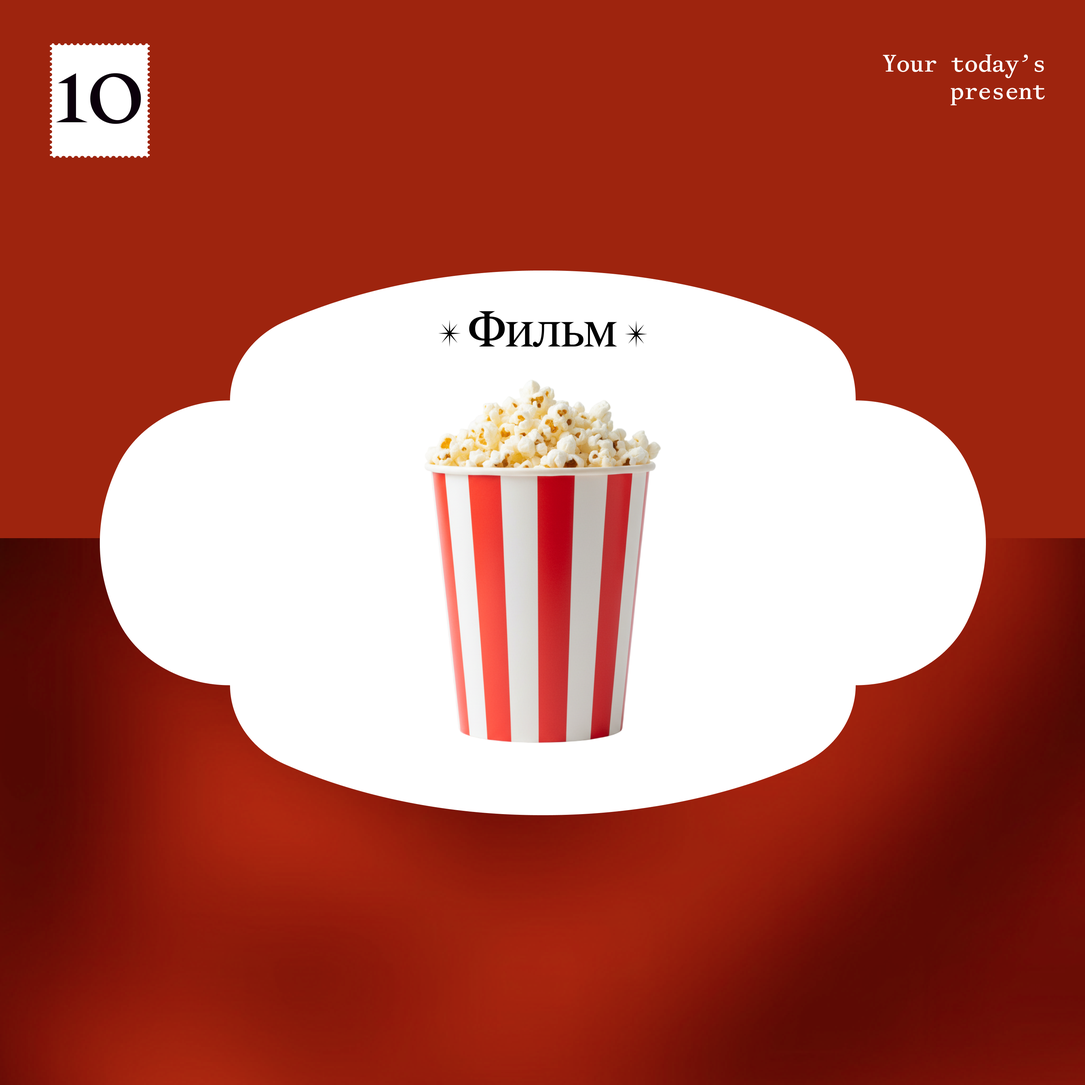
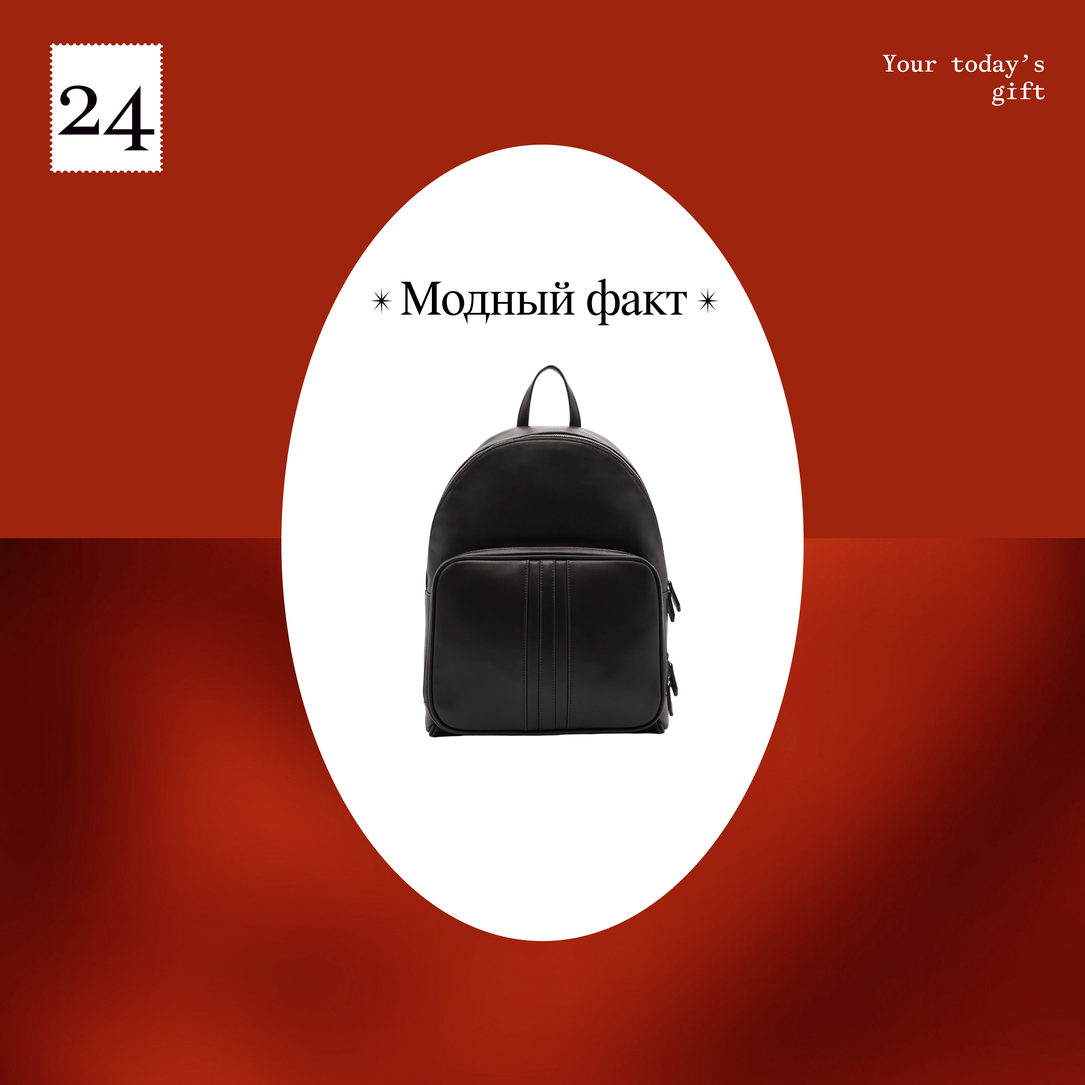
update copy and imgs

diff --git a/app/utils/advent_calendar.py b/app/utils/advent_calendar.py
@@ -1,125 +1,121 @@
 from app.database.models import AdventDay
 from app.database.requests import get_advent_day, add_advent_day, update_advent_day
 
-msg_wins_1 = """Поздравляем, удача выбрала именно тебя! 
+msg_wins_1 = """Поздравляем, удача выбрала именно вас! Используйте подарочную карту и исполни своё новогоднее fashion-желание.
 
-Используй подарочную карту и исполни своё новогоднее fashion-желание.
+С вами свяжется менеджер и обсудит детали получения подарка.
 
-С тобой свяжется менеджер и обсудит детали получения подарка.
+*рассылка подарков будет осуществляться до конца января """
 
-*рассылка подарков будет осуществляться до конца января"""
+msg_wins_2 = """Ура, вы стали победителем — новогодняя магия явно на вашей стороне! Ловите стильный аксессуар и добавляйте своему образу яркости в праздничный сезон.
 
-msg_wins_2 = """Ура, ты стал победителем — новогодняя магия явно на твоей стороне! 
+С вами свяжется менеджер и обсудит детали получения подарка.
 
-Лови стильный аксессуар и добавь своему образу яркости в праздничный сезон.
+*рассылка подарков будет осуществляться до конца января """
 
-С тобой свяжется менеджер и обсудит детали получения подарка.
+msg_wins_3 = """Вау! Вы стали обладателем нашего эксклюзивного подарочного набора! 
 
-*рассылка подарков будет осуществляться до конца января"""
-
-msg_wins_3 = """Вау! Ты стал обладателем нашего эксклюзивного супер-бокса! 
-
-С тобой свяжется менеджер и обсудит детали получения подарка.
+С вами свяжется менеджер и обсудит детали получения подарка.
 
 *рассылка подарков будет осуществляться до конца января"""
 
-#                                                                           карта   аксессуар
+
 advent_calendar = [
-    AdventDay(day=15,
+    AdventDay(day=17,
               msgs_wins=[msg_wins_1, msg_wins_2, msg_wins_3],
-              msgs_loses=["Пусть этот день ляжет на вас так же мягко, как любимый свитер: тёплый свет, спокойные паузы и маленькие модные удовольствия — удачная посадка, приятные ткани, детали, которые делают образ по-настоящему гармоничным."],
+              msgs_loses=["Пусть вечер пройдёт комфортно: любимая одежда, согревающий чай, мягкий плед и те самые детали, о которых знаете только вы! Это все точно поднимет ваше настроение."],
               count_wins_1=2,
               count_wins_2=1,
               count_wins_3=0),
-    AdventDay(day=16,
+    AdventDay(day=18,
               msgs_wins=[msg_wins_1, msg_wins_2, msg_wins_3],
-              msgs_loses=["Пора расслабиться и послушать песни, которые такие же лёгкие, как и падающие снежинки."],
-              count_wins_1=0,
-              count_wins_2=0,
-              count_wins_3=0),
-    AdventDay(day=17,
-              msgs_wins=[msg_wins_1, msg_wins_2, msg_wins_3],
-              msgs_loses=["В 2026-м ваша жизнь будет собираться, как удачный образ: спокойная база, к которой постепенно добавляются акцентные детали. Сначала — маленькие победы, затем — новые люди, затем — идея, которая станет вашим личным «главным аксессуаром года». К концу года вы увидите, как все элементы складываются в цельный, гармоничный «лук» — про вас, про рост, про внутреннюю зрелость. Это будет красивый, ровный год — без лишней суеты, но с правильными акцентами."],
+              msgs_loses=["Ваш 2026 год будет, как удачный образ: спокойная база, к которой добавляют акцентные детали. Сначала — маленькие победы, затем — новые люди, и финально — идея, которая станет вашим «главным аксессуаром года». Вы увидите, как все элементы складываются в цельный, гармоничный наряд. Это будет идеальгый год. Без лишней суеты и с правильными акцентами."],
               count_wins_1=2,
               count_wins_2=2,
               count_wins_3=0),
-    AdventDay(day=18,
+    AdventDay(day=19,
               msgs_wins=[msg_wins_1, msg_wins_2, msg_wins_3],
               msgs_loses=["Ловите классный рецепт зимнего напитка! Тёплый апельсиново-имбирный чай. В чашку — ломтик апельсина, щепотку имбиря, чайную ложку мёда и горячую воду. Настоять 3–4 минуты.  "],
               count_wins_1=1,
               count_wins_2=0,
               count_wins_3=0),
-    AdventDay(day=19,
+    AdventDay(day=20,
               msgs_wins=[msg_wins_1, msg_wins_2, msg_wins_3],
-              msgs_loses=["Пусть этот день сядет на вас так же идеально, как хорошо скроенный образ: мягкие линии спокойствия, комфортная ткань настроения и несколько стильных акцентов, от которых хочется улыбаться. Пусть всё смотрится гармонично, чувствуются вы — и ваш собственный ритм красоты."],
+              msgs_loses=["Пусть день будет в вашем ритме. А также комфорт, любимая одежда и напитки, а ещё — стильные детали, которые радуют и делают образ гармоничным."],
               count_wins_1=0,
               count_wins_2=3,
               count_wins_3=0),
-    AdventDay(day=20,
-              msgs_wins=[msg_wins_1, msg_wins_2, msg_wins_3],
-              msgs_loses=["Сегодня попробуйте «слоить» не только одежду, но и свой день. Начните с тёплой, заботливой мелочи — чашки горячего напитка или короткой паузы. Потом добавьте один полезный штрих — разобрать маленькое дело, которое давно ждёт. А сверху — что-то приятное лично для вас. Такой «многослойный» день получается устойчивым и комфортным.",
-                          "Как и у хорошего образа, у вашего дня должен быть акцент. Выберите одну вещь — маленькую, но важную: звонок близкому, короткая прогулка, 10 минут чтения. Сделайте её главным «аксессуаром» дня. Когда фокус ясный, всё остальное гармонично выстраивается вокруг"],
-              count_wins_1=0,
-              count_wins_2=0,
-              count_wins_3=0),
     AdventDay(day=21,
               msgs_wins=[msg_wins_1, msg_wins_2, msg_wins_3],
-              msgs_loses=["Желаем вам лёгкого, светлого дня — такого же удобного, как идеально собранный лук. Пусть всё лишнее останется за дверью, а рядом будут только те вещи и акценты, которые дарят уют: удобный крой, любимые фактуры, оттенки, в которых комфортно быть собой."],
-              count_wins_1=3,
-              count_wins_2=1,
+              msgs_loses=[" Попробуйте поэкспериментировать с многослойностью — и в подготовке к празднику, и в образе. Сначала готовим базу — подарки. Потом добавляем детали — блюда на стол, декор. И в финале — ваш праздничный образ. Так подготовка превращается в гармоничный, приятный ритуал.",
+                          "Как и у хорошего образа, у вашего дня должен быть акцент. Выберите одну вещь — маленькую, но важную: звонок близкому человеку, короткая прогулка, 10 минут чтения. Сделайте её главным «аксессуаром» дня. Когда фокус ясный, всё остальное гармонично выстраивается вокруг."],
+              count_wins_1=0,
+              count_wins_2=0,
               count_wins_3=0),
     AdventDay(day=22,
               msgs_wins=[msg_wins_1, msg_wins_2, msg_wins_3],
-              msgs_loses=["Ловите классный рецепт зимнего десерта. Запечённое яблоко с корицей. Разрезать яблоко, добавить немного сахара или мёда, корицу и запечь 15 минут. Просто, ароматно, по-зимнему уютно."],
-              count_wins_1=0,
-              count_wins_2=2,
+              msgs_loses=["Желаем лёгкой и атмосферной подготовки к Новому году. Без суеты и спешки. Пусть вас сопровождает ощущение уюта, радостного ожидания и предвкушения запоминающегося праздника."],
+              count_wins_1=3,
+              count_wins_2=1,
               count_wins_3=0),
     AdventDay(day=23,
               msgs_wins=[msg_wins_1, msg_wins_2, msg_wins_3],
-              msgs_loses=["В Средние века длина рукавов могла показывать статус человека — чем длиннее и причудливее рукав, тем выше положение в обществе. Считалось, что такие рукава демонстрируют, что человек не занимается физическим трудом и может позволить себе чистую роскошь."],
-              count_wins_1=2,
-              count_wins_2=0,
+              msgs_loses=["Рецепт зимнего десерта к новогоднему столу. Запечённое яблоко с корицей. Разрезать яблоко, добавить немного сахара или мёда, корицу и запечь 15 минут. Просто, ароматно, по-зимнему уютно."],
+              count_wins_1=0,
+              count_wins_2=2,
               count_wins_3=0),
     AdventDay(day=24,
               msgs_wins=[msg_wins_1, msg_wins_2, msg_wins_3],
-              msgs_loses=["""За окном снегопад, в сердце предвкушение праздника, а на экране –– незаезжанные фильмы о новогоднем чуде.                                                                                                                                                          
-
-Думаете, таких уже не отыскать? А мы смогли. Эти кинокартины не на слуху, но создают волшебную зимнюю атмосферу. Обязательно смотреть под пледом и с чашкой чая!                                                                                                                                                                                                                                                                                                                                  ❄ «Эта замечательная жизнь» (1947 г.)
-❄ «Чудо на 34-й улице» (1947 г.)
-❄ «Счастливого Рождества» (2005 г.) 
-❄«Семьянин» (2000 г.)
-❄«Поменяться местами» (1983 г.)              
-❄«8 женщин» (2001 г.) """],
-              count_wins_1=0,
+              msgs_loses=["Рюкзаки вошли в повседневную моду благодаря путешественникам и студентам в середине XX века. Сегодня это один из самых универсальных аксессуаров, который уместен и в городе, и в поездках, и даже в офисных образах."],
+              count_wins_1=2,
               count_wins_2=0,
               count_wins_3=0),
     AdventDay(day=25,
               msgs_wins=[msg_wins_1, msg_wins_2, msg_wins_3],
-              msgs_loses=["Маленькое фэшн-вдохновение: представьте спокойную зимнюю палитру — глубокий шоколадный, сливочный, оттенок перечной мяты, немного серебра. Стиль в духе MAAG: лаконичный, чистый, без лишнего. Попробуйте сегодня собрать образ в этой гамме — даже одна деталь создаёт настроение."],
+              msgs_loses=["Маленькое фэшн-вдохновение. Представьте спокойную зимнюю палитру — шоколадный, сливочный, оттенок мяты, немного серебра. Стиль в духе MAAG: лаконичный, чистый, без лишнего."],
               count_wins_1=2,
               count_wins_2=3,
               count_wins_3=0),
     AdventDay(day=26,
               msgs_wins=[msg_wins_1, msg_wins_2, msg_wins_3],
-              msgs_loses=["Пусть этот день станет маленьким островком спокойствия — как момент, когда находишь идеальную тёплую вещь для морозного утра. Замедлитесь, вдохните воздух, почувствуйте радость в простых модных деталях: мягкая шерсть, правильный силуэт, свет в каждом нюансе образа. "],
-              count_wins_1=2,
+              msgs_loses=["""За окном — метель, на душе — предвкушение праздника, а на экране — новогоднее кино, конечно же. Думаете, уже нет фильмов с праздничным настроением, которые вы не смотрели? Держите подборку зимних картин, которые не на слуху, но создают волшебную атмосферу. Обязательно смотреть под пледом с мандаринами!
+
+Эта замечательная жизнь (1947 г.)
+Чудо на 34-й улице (1994 г.)
+Счастливого Рождества (2005 г.) 
+Семьянин (2000 г.)
+Поменяться местами (1983 г.)              
+8 женщин (2001 г.)"""],
+              count_wins_1=0,
               count_wins_2=0,
               count_wins_3=0),
     AdventDay(day=27,
               msgs_wins=[msg_wins_1, msg_wins_2, msg_wins_3],
-              msgs_loses=["Цвет «королевский синий» долгое время был привилегией знати, потому что пигмент для него добывали из редкого минерала лазурита — он был дороже золота. Сегодня этот оттенок по-прежнему считается мощным акцентом и символом уверенности в стиле."],
+              msgs_loses=["Мода на плюшевые аксессуары пришла с трендом на тактильность в 2010-х годах. Мягкие текстуры в шарфах, сумках и других аксессуарах работают как визуальный «антистресс»."],
               count_wins_1=0,
               count_wins_2=3,
               count_wins_3=0),
     AdventDay(day=28,
               msgs_wins=[msg_wins_1, msg_wins_2, msg_wins_3],
-              msgs_loses=["2026 год будет для вас годом идеальной посадки. Всё, что раньше казалось «не по размеру» — люди, планы, направления — постепенно уйдёт, освобождая место для того, что ложится точно по вам. Появятся возможности, которые сядут так же естественно, как любимое пальто: не давят, не отвлекают, просто подчёркивают вашу форму и внутренний ритм. Этот год подарит вам уверенность в своём стиле — в жизни и в выборе."],
+              msgs_loses=["2026 год станет временем точных решений. Всё лишнее постепенно уйдёт, а на их место придёт то, что действительно вам подходит и должно вас окружать. Появится больше ясности, уверенности в выборе и чувство собственного ритма — в жизни, шопинге и в том, чего вы искренне хотите."],
               count_wins_1=2,
               count_wins_2=2,
               count_wins_3=0),
     AdventDay(day=29,
               msgs_wins=[msg_wins_1, msg_wins_2, msg_wins_3],
-              msgs_loses=["Зимний образ, который легко повторить: объемный шарф, лёгкий оверсайз в верхней части и более собранный низ. Теплая палитра — молочный, беж, мокрый асфальт. Добавьте одну деталь, которая делает образ личным: кожаные перчатки, аккуратная шапка, крупная фактура вязаного свитера. Такой образ держится на балансе уюта и чистых линий — и подходит каждому зимнему дню"],
+              msgs_loses=["Пусть этот день станет маленьким островком спокойствия — как момент, когда находишь идеальную тёплую вещь для морозного утра. Замедлитесь, сделайте вдох, почувствуйте радость в простых модных деталях: мягкая шерсть, правильный силуэт, свет в каждом нюансе образа."],
+              count_wins_1=2,
+              count_wins_2=0,
+              count_wins_3=0),
+    AdventDay(day=30,
+              msgs_wins=[msg_wins_1, msg_wins_2, msg_wins_3],
+              msgs_loses=["Пора расслабиться и послушать песни, такие же лёгкие, как и падающие снежинки. С нашим плейлистом Новый год станет ещё ближе! "],
+              count_wins_1=0,
+              count_wins_2=0,
+              count_wins_3=0),
+    AdventDay(day=31,
+              msgs_wins=[msg_wins_1, msg_wins_2, msg_wins_3],
+              msgs_loses=["Комфортный и стильный образ, который легко повторить: оверсайз сверху и более собранный низ. Молочные и бежевые оттенки придадут тепла вашему образу. А стильный аксессуар станет «звёздой» — яркие перчатки, аккуратная шапка или фактурный свитер. Они зададут тон всему образу, делая его личным и уютным."],
               count_wins_1=0,
               count_wins_2=0,
               count_wins_3=3)

diff --git a/app/handlers/main.py b/app/handlers/main.py
@@ -25,11 +25,10 @@ async def cmd_message(message: types.Message, bot: Bot, command: Command):
         return
     member = await bot.get_chat_member(chat_id=env_config('CHANNEL_ID'), user_id=message.from_user.id)
     if member.status in ("member", "administrator", "creator"):
-        await message.answer_photo(caption=cp.start_msg,
-                                   photo=FSInputFile('app/static/advent.png'),
-                                   reply_markup=kb.get_advent_btn(check_days=user.check_days,
-                                                                  start_day=15,
-                                                                  end_day=29))
+        await message.answer(cp.start_msg,
+                            reply_markup=kb.get_advent_btn(check_days=user.check_days,
+                                                           start_day=17,
+                                                           end_day=31))
     else:
         await message.answer(cp.sub_msg, reply_markup=kb.sub_btn)
 
@@ -40,11 +39,10 @@ async def check_sub(callback: types.CallbackQuery, state: FSMContext, bot: Bot):
     if member.status in ("member", "administrator", "creator"):
         user = await get_user(callback.from_user.id)
         await update_user_subscription(callback.from_user.id)
-        await callback.message.answer_photo(caption=cp.start_msg,
-                                            photo=FSInputFile('app/static/advent.png'),
-                                            reply_markup=kb.get_advent_btn(check_days=user.check_days,
-                                                                           start_day=15,
-                                                                           end_day=29))
+        await callback.message.answer(cp.start_msg,
+                                      reply_markup=kb.get_advent_btn(check_days=user.check_days,
+                                                                     start_day=17,
+                                                                     end_day=31))
     else:
         await callback.message.answer(cp.unsub_msg, reply_markup=kb.sub_btn)
 
@@ -52,8 +50,7 @@ async def check_sub(callback: types.CallbackQuery, state: FSMContext, bot: Bot):
 @main_handler.callback_query(F.data == 'advent')
 async def advent(callback: types.CallbackQuery, state: FSMContext):
     user = await get_user(callback.from_user.id)
-    await callback.message.answer_photo(caption=cp.start_msg,
-                                        photo=FSInputFile('app/static/advent.png'),
-                                        reply_markup=kb.get_advent_btn(check_days=user.check_days,
-                                                                       start_day=15,
-                                                                       end_day=29))
+    await callback.message.answer(cp.start_msg,
+                                  reply_markup=kb.get_advent_btn(check_days=user.check_days,
+                                                                 start_day=17,
+                                                                 end_day=31))

diff --git a/app/utils/functions.py b/app/utils/functions.py
@@ -8,34 +8,35 @@ def check_winner(
         min_chance: float = 0.005,
         max_chance: float = 1.0,
 ) -> bool:
-    if total_prizes == prizes_given:
-        return False
-
-    now = datetime.now() + timedelta()
-
-    # сколько прошло секунд с начала дня
-    seconds_passed = (
-            now - datetime.combine(now.date(), time.min)
-    ).total_seconds()
-
-    # всего секунд в дне
-    seconds_in_day = 24 * 60 * 60
-
-    # Часть дня, которая прошла
-    day_progress = seconds_passed / seconds_in_day
-
-    # сколько призов должно быть выдано к этому моменту
-    expected_given = total_prizes * day_progress
-
-    # отклонение от плана
-    delta = expected_given - prizes_given
-
-    # вероятность выигрыша
-    chance = delta / total_prizes
-
-    if chance < 0.5:
-        chance /= 5
-
-    chance = max(min_chance, min(chance, max_chance))
-
-    return random() < chance
+    return random() < 0.5
+    # if total_prizes == prizes_given:
+    #     return False
+    #
+    # now = datetime.now() + timedelta()
+    #
+    # # сколько прошло секунд с начала дня
+    # seconds_passed = (
+    #         now - datetime.combine(now.date(), time.min)
+    # ).total_seconds()
+    #
+    # # всего секунд в дне
+    # seconds_in_day = 24 * 60 * 60
+    #
+    # # Часть дня, которая прошла
+    # day_progress = seconds_passed / seconds_in_day
+    #
+    # # сколько призов должно быть выдано к этому моменту
+    # expected_given = total_prizes * day_progress
+    #
+    # # отклонение от плана
+    # delta = expected_given - prizes_given
+    #
+    # # вероятность выигрыша
+    # chance = delta / total_prizes
+    #
+    # if chance < 0.5:
+    #     chance /= 5
+    #
+    # chance = max(min_chance, min(chance, max_chance))
+    #
+    # return random() < chance

diff --git a/app/keyboards/main.py b/app/keyboards/main.py
@@ -41,25 +41,25 @@ def get_advent_btn(start_day=1,
         for j in range(interval):
             text = f"{start_day + j}"
 
-            # if start_day + j in check_days:
-            #     text += " ✅"
-            #     callback_data = f'unlock_advent:{start_day + j}'
-            # else:
-            #     text += " 🎁"
-            #     callback_data = f'new_advent:{start_day + j}'
-
             if start_day + j in check_days:
                 text += " ✅"
                 callback_data = f'unlock_advent:{start_day + j}'
-            elif start_day + j < today:
-                text += " ❌"
-                callback_data = "miss_advent"
-            elif start_day + j == today:
+            else:
                 text += " 🎁"
                 callback_data = f'new_advent:{start_day + j}'
-            else:
-                text += " 🔒"
-                callback_data = "lock_advent"
+
+            # if start_day + j in check_days:
+            #     text += " ✅"
+            #     callback_data = f'unlock_advent:{start_day + j}'
+            # elif start_day + j < today:
+            #     text += " ❌"
+            #     callback_data = "miss_advent"
+            # elif start_day + j == today:
+            #     text += " 🎁"
+            #     callback_data = f'new_advent:{start_day + j}'
+            # else:
+            #     text += " 🔒"
+            #     callback_data = "lock_advent"
 
             row.append(
                 types.InlineKeyboardButton(

diff --git a/app/texts/main.py b/app/texts/main.py
@@ -1,10 +1,10 @@
 from decouple import config
 
-sub_msg = "Будьте в курсе стиля MAAG. Подпишись и нажимайте «Проверить подписку»."
+sub_msg = "Будьте в курсе новостей MAAG. Подпишитесь и нажмите «Проверить подписку»."
 
 start_msg = "Сегодня — ваш день. Давайте откроем ячейку и посмотрим, какой сюрприз вас ждёт."
 
-unsub_msg = "Подписка не найдена. Подпишитесь на канал MAAG и нажми «Проверить подписку»."
+unsub_msg = "Подписка не найдена. Подпишитесь на канал MAAG и нажмите «Проверить подписку»."
 
 miss_advent = "Похоже, этот день уже прошёл. Ничего страшного — впереди ещё много приятного."
 

diff --git a/app/handlers/advent.py b/app/handlers/advent.py
@@ -47,8 +47,8 @@ async def answer_message(callback: types.CallbackQuery, state: FSMContext, bot: 
 async def answer_message(callback: types.CallbackQuery, state: FSMContext, bot: Bot, cache_advent: CacheAdvent):
     day = int(callback.data.split(":")[1])
     today = datetime.datetime.now().day
-    if day != today:
-        return
+    # if day != today:
+    #     return
 
     user = await get_user(callback.from_user.id)
     if day in user.check_days:
@@ -63,6 +63,7 @@ async def answer_message(callback: types.CallbackQuery, state: FSMContext, bot: 
     total_prizes = advent_day.count_wins_1 + advent_day.count_wins_2 + advent_day.count_wins_3
     prizes_given = total_prizes - advent_day.left_wins_1 + advent_day.left_wins_2 + advent_day.left_wins_3
     check_win = check_winner(total_prizes, prizes_given)
+
     if check_win:
         already_winner = await get_winner(callback.from_user.id)
         if already_winner:
